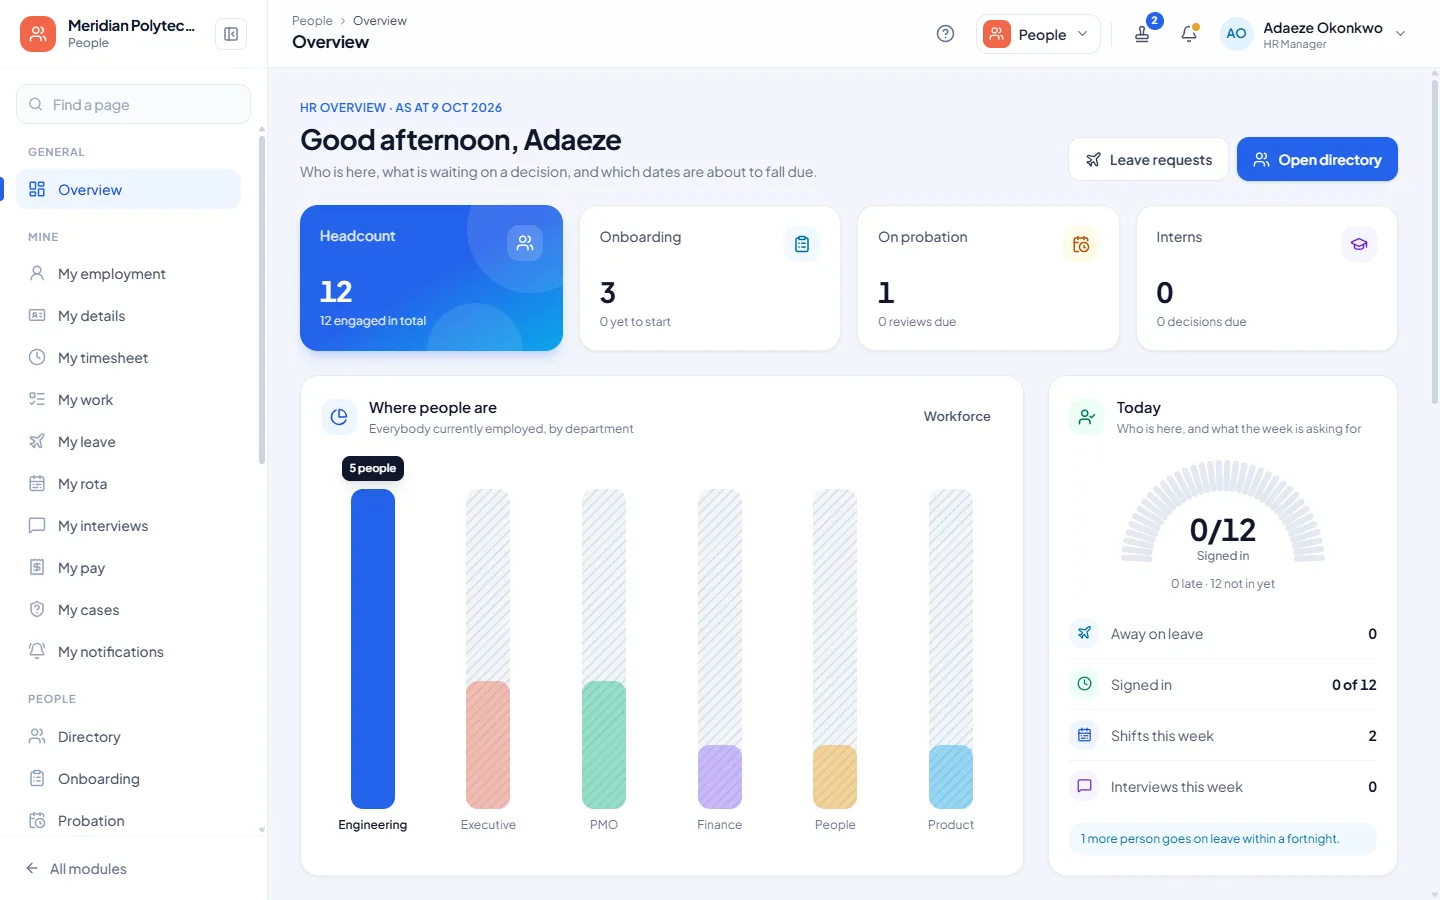
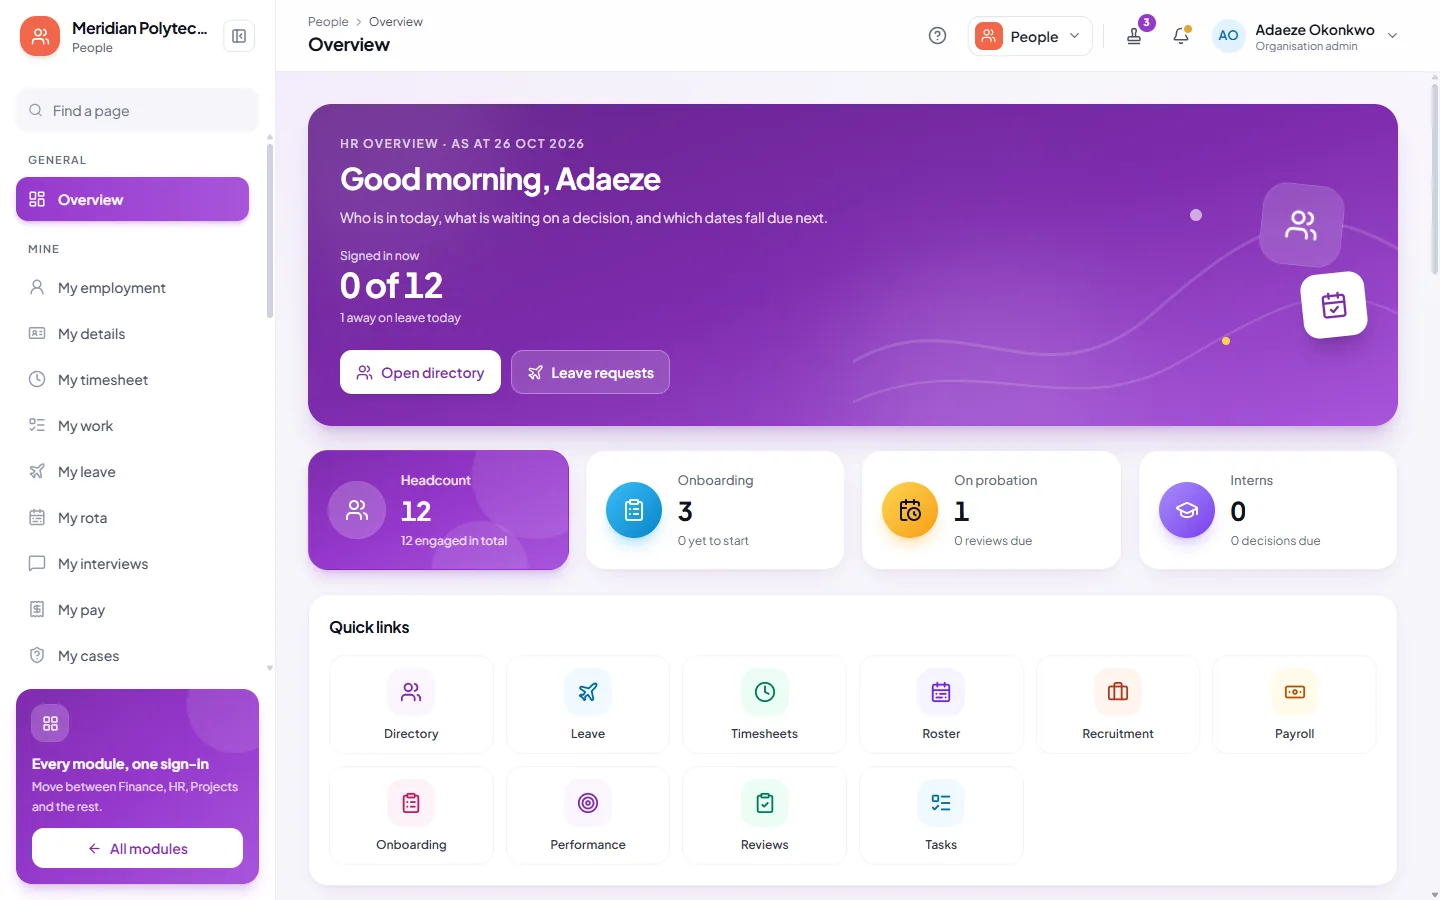
feat: update .webp images for various screens and enhance ProductScreenshot component

diff --git a/src/components/platform/ProductScreenshot.tsx b/src/components/platform/ProductScreenshot.tsx
@@ -5,7 +5,8 @@ import { HUE, type ProductHue } from "@/lib/products";
 /**
  * A real screen from the running suite, in the same browser frame the drawn
  * mocks use (owner, 9 Oct 2026: the site shows each module's actual
- * dashboards, captured from the Meridian Polytechnic demo organisation).
+ * dashboards, captured from the Meridian Polytechnic demo organisation; re-captured
+ * 26 Oct 2026 after the dashboard redesign).
  *
  * The files live in `public/images/screens/*.webp`, 1440 × 900 captures. The
  * address bar carries the in-app path so a reader can see where in the
@@ -15,39 +16,39 @@ import { HUE, type ProductHue } from "@/lib/products";
  * the screen, and the frame chrome stays decorative.
  */
 export const SCREENS = {
-  suiteHome: { src: "/images/screens/suite-home.webp", path: "/suite", alt: "Suite home: every module the person can open, on one sign-in" },
-  approvals: { src: "/images/screens/approvals-inbox.webp", path: "/suite/approvals", alt: "The unified approvals inbox across every module" },
-  orgConsole: { src: "/images/screens/org-console.webp", path: "/suite/org", alt: "The organisation console: structure, roles, approvals and numbering" },
+  suiteHome: { src: "/images/screens/suite-home-v2.webp", path: "/suite", alt: "Suite home: every module the person can open, on one sign-in" },
+  approvals: { src: "/images/screens/approvals-inbox-v2.webp", path: "/suite/approvals", alt: "The unified approvals inbox across every module" },
+  orgConsole: { src: "/images/screens/org-console-v2.webp", path: "/suite/org", alt: "The organisation console: structure, roles, approvals and numbering" },
 
-  financeDashboard: { src: "/images/screens/finance-dashboard.webp", path: "/suite/finance", alt: "Finance overview: month-by-month close, cash at bank, surplus and work waiting" },
-  financeProjects: { src: "/images/screens/finance-projects.webp", path: "/suite/finance/projects", alt: "Project funds: released, committed, spent and available across every project" },
-  financeCompanyReport: { src: "/images/screens/finance-company-report.webp", path: "/suite/finance/reports/company", alt: "The company finance report: every analysis for a period, printable" },
-  financeVouchers: { src: "/images/screens/finance-vouchers.webp", path: "/suite/finance/vouchers", alt: "Payment vouchers from memo to bank" },
-  financeBanking: { src: "/images/screens/finance-banking.webp", path: "/suite/finance/banking", alt: "Banking: statement import, review and reconciliation" },
-  financeBudgets: { src: "/images/screens/finance-budgets.webp", path: "/suite/finance/budgets", alt: "Company budgets against actual" },
+  financeDashboard: { src: "/images/screens/finance-dashboard-v2.webp", path: "/suite/finance", alt: "Finance overview: cash at bank, income and surplus for the year, net assets and work waiting" },
+  financeProjects: { src: "/images/screens/finance-projects-v2.webp", path: "/suite/finance/projects", alt: "Project funds: released, committed, spent and available across every project" },
+  financeCompanyReport: { src: "/images/screens/finance-company-report-v2.webp", path: "/suite/finance/reports/company", alt: "The company finance report: every analysis for a period, printable" },
+  financeVouchers: { src: "/images/screens/finance-vouchers-v2.webp", path: "/suite/finance/vouchers", alt: "Payment vouchers from memo to bank" },
+  financeBanking: { src: "/images/screens/finance-banking-v2.webp", path: "/suite/finance/banking", alt: "Banking: statement import, review and reconciliation" },
+  financeBudgets: { src: "/images/screens/finance-budgets-v2.webp", path: "/suite/finance/budgets", alt: "Company budgets against actual" },
 
-  operationsDashboard: { src: "/images/screens/operations-dashboard.webp", path: "/suite/operations", alt: "Operations overview: purchasing, deliveries, trips, events and stock" },
-  opsTravel: { src: "/images/screens/ops-travel.webp", path: "/suite/operations/travel", alt: "Travel desk with its calendar" },
-  opsEvents: { src: "/images/screens/ops-events.webp", path: "/suite/operations/events", alt: "Events, workshops and engagements with their budgets" },
-  opsAssets: { src: "/images/screens/ops-assets.webp", path: "/suite/operations/assets", alt: "The asset register" },
-  opsStores: { src: "/images/screens/ops-stores.webp", path: "/suite/operations/stores", alt: "Stores and stock" },
-  opsFleet: { src: "/images/screens/ops-fleet.webp", path: "/suite/operations/fleet", alt: "Fleet: vehicles, papers and bookings" },
+  operationsDashboard: { src: "/images/screens/operations-dashboard-v2.webp", path: "/suite/operations", alt: "Operations overview: purchasing, deliveries, trips, events and stock" },
+  opsTravel: { src: "/images/screens/ops-travel-v2.webp", path: "/suite/operations/travel", alt: "Travel desk with its calendar" },
+  opsEvents: { src: "/images/screens/ops-events-v2.webp", path: "/suite/operations/events", alt: "Events, workshops and engagements with their budgets" },
+  opsAssets: { src: "/images/screens/ops-assets-v2.webp", path: "/suite/operations/assets", alt: "The asset register" },
+  opsStores: { src: "/images/screens/ops-stores-v2.webp", path: "/suite/operations/stores", alt: "Stores and stock" },
+  opsFleet: { src: "/images/screens/ops-fleet-v2.webp", path: "/suite/operations/fleet", alt: "Fleet: vehicles, papers and bookings" },
 
-  hrmDashboard: { src: "/images/screens/hrm-dashboard.webp", path: "/suite/hrm", alt: "People overview: headcount, onboarding, probation and who is in today" },
-  hrmPeople: { src: "/images/screens/hrm-people.webp", path: "/suite/hrm/people", alt: "The people directory" },
-  hrmPayroll: { src: "/images/screens/hrm-payroll.webp", path: "/suite/hrm/payroll", alt: "Payroll runs: net, gross, deductions and employer cost" },
-  hrmLeave: { src: "/images/screens/hrm-leave.webp", path: "/suite/hrm/leave", alt: "Leave requests and balances" },
-  hrmRecruitment: { src: "/images/screens/hrm-recruitment.webp", path: "/suite/hrm/recruitment", alt: "Recruitment pipeline" },
-  hrmPerformance: { src: "/images/screens/hrm-performance.webp", path: "/suite/hrm/performance", alt: "Performance: goals, KPIs and appraisals" },
+  hrmDashboard: { src: "/images/screens/hrm-dashboard-v2.webp", path: "/suite/hrm", alt: "People overview: headcount, onboarding, probation and who is in today" },
+  hrmPeople: { src: "/images/screens/hrm-people-v2.webp", path: "/suite/hrm/people", alt: "The people directory" },
+  hrmPayroll: { src: "/images/screens/hrm-payroll-v2.webp", path: "/suite/hrm/payroll", alt: "Payroll runs: net, gross, deductions and employer cost" },
+  hrmLeave: { src: "/images/screens/hrm-leave-v2.webp", path: "/suite/hrm/leave", alt: "Leave requests and balances" },
+  hrmRecruitment: { src: "/images/screens/hrm-recruitment-v2.webp", path: "/suite/hrm/recruitment", alt: "Recruitment pipeline" },
+  hrmPerformance: { src: "/images/screens/hrm-performance-v2.webp", path: "/suite/hrm/performance", alt: "Performance: goals, KPIs and appraisals" },
 
-  projectsDashboard: { src: "/images/screens/projects-dashboard.webp", path: "/suite/projects", alt: "Every project, with schedule used and the team" },
-  projectsBoard: { src: "/images/screens/projects-board.webp", path: "/suite/projects/hrm-system", alt: "A project's backlog grouped by epic" },
-  projectsPerformance: { src: "/images/screens/projects-performance.webp", path: "/suite/projects/…/performance", alt: "Team performance: velocity, variability and a forecast from real sprints" },
-  projectsFinance: { src: "/images/screens/projects-finance.webp", path: "/suite/projects/…/finance", alt: "Expected expense against actual, on the project itself" },
-  projectsSchedule: { src: "/images/screens/projects-schedule.webp", path: "/suite/projects/…/schedule", alt: "The schedule and critical path" },
+  projectsDashboard: { src: "/images/screens/projects-dashboard-v2.webp", path: "/suite/projects", alt: "Projects overview: open projects, what is past its target, what is due next and clients" },
+  projectsBoard: { src: "/images/screens/projects-board-v2.webp", path: "/suite/projects/student-portal-rebuild", alt: "A project's backlog grouped by epic" },
+  projectsPerformance: { src: "/images/screens/projects-performance-v2.webp", path: "/suite/projects/…/performance", alt: "Team performance: velocity, variability and a forecast from real sprints" },
+  projectsFinance: { src: "/images/screens/projects-finance-v2.webp", path: "/suite/projects/…/finance", alt: "Expected expense against actual, on the project itself" },
+  projectsSchedule: { src: "/images/screens/projects-schedule-v2.webp", path: "/suite/projects/…/schedule", alt: "The schedule and critical path" },
 
-  lmsDashboard: { src: "/images/screens/lms-dashboard.webp", path: "/suite/lms", alt: "Learning overview: staff in training, completions, courses and ratings" },
-  lmsCourses: { src: "/images/screens/lms-courses.webp", path: "/suite/lms/courses", alt: "The course catalogue" },
+  lmsDashboard: { src: "/images/screens/lms-dashboard-v2.webp", path: "/suite/lms", alt: "Learning overview: staff in training, completions, courses and ratings" },
+  lmsCourses: { src: "/images/screens/lms-courses-v2.webp", path: "/suite/lms/courses", alt: "The course catalogue" },
 } as const;
 
 export type ScreenKey = keyof typeof SCREENS;
